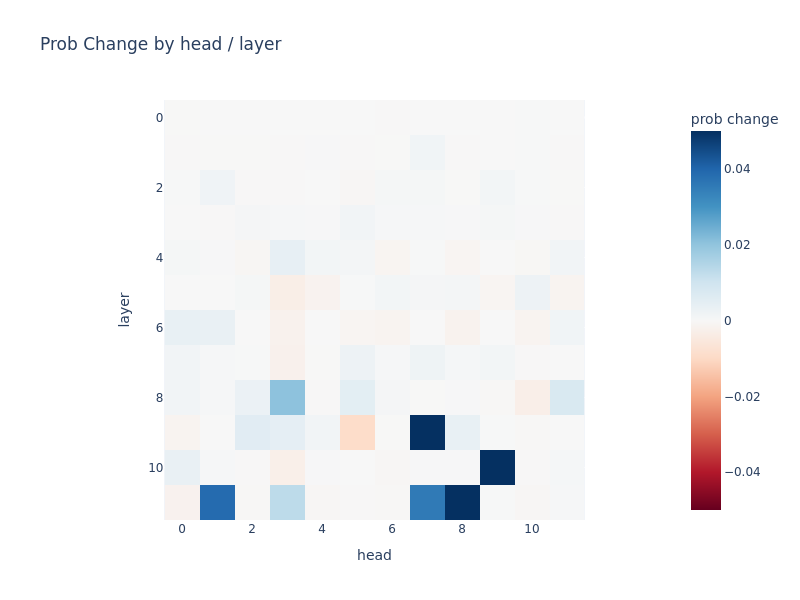
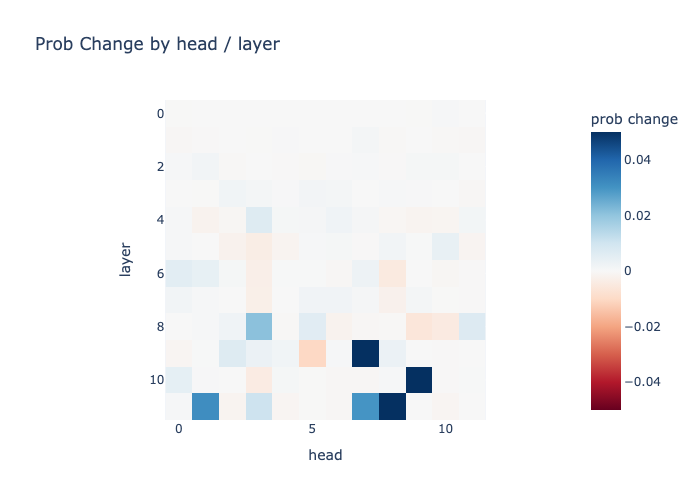
add rephrasing with subtle/direct hints

diff --git a/dataset_util.py b/dataset_util.py
@@ -16,7 +16,7 @@ def tokenize_together(model: HookedTransformer, female_sentences: List[str], mal
     return female_toks, male_toks
 
 def load_professions_dataset(model: HookedTransformer, 
-                             sentence_structure=lambda prof: f"The {prof} said that") -> Tuple[torch.Tensor, torch.Tensor, torch.Tensor, ActivationCache]:
+                             sentence_structure=lambda prof, pronoun, adj: f"The {prof} said that") -> Tuple[torch.Tensor, torch.Tensor, torch.Tensor, ActivationCache]:
     # We're going to load up some examples.
     with open("professions_female_stereo.json", 'r') as f:
         female_stereo_professions = [x[0] for x in json.load(f)]
@@ -32,9 +32,10 @@ def load_professions_dataset(model: HookedTransformer,
     male_stereo_professions = [x for x, l in zip(male_stereo_professions, male_stereo_professions_lens) if l == 1]
 
     # slot them into our sentences
-    female_stereo_sentences = [sentence_structure(profession) for profession in female_stereo_professions]
-    male_stereo_sentences = [sentence_structure(profession) for profession in male_stereo_professions]
+    female_stereo_sentences = [sentence_structure(profession, "he", "broad-shouldered") for profession in female_stereo_professions]
+    male_stereo_sentences = [sentence_structure(profession, "she", "nice-looking") for profession in male_stereo_professions]
 
+    print(female_stereo_sentences[:3], male_stereo_sentences[:3])
     # convert our sentences into tokens
     female_stereo_toks, male_stereo_toks = tokenize_together(model, female_stereo_sentences, male_stereo_sentences)
     model.cfg.use_attn_result = True

diff --git a/experiments.py b/experiments.py
@@ -97,9 +97,11 @@ if args.experiment in ["phrasing_names", "all"]:
         fig.write_image(f"results/name_rephrase_{i}_interchange_ablation_names.png")
 
 if args.experiment in ["phrasing_professions", "all"]:
-    rephrases = [lambda name: f"The {name} is here, isn't",
-                 lambda name: f"The {name} told us that",
-                 lambda name: f"I met the {name} yesterday."]
+    rephrases = [lambda name, pronoun, _: f"The {name} is here, isn't",
+                 lambda name, pronoun, _: f"The {name} told us that",
+                 lambda name, pronoun, _: f"I met the {name} yesterday and",
+                 lambda name, pronoun, _: f"The {name} looked worried as {pronoun} approached us. The {name} said that",
+                 lambda name, _, adj: f"The {adj} {name} told us that"]
     for i, rephrase_func in enumerate(rephrases):
         print(f"Loading professions dataset with rephrase {i}") 
         female_stereo_toks, male_stereo_toks, gpt2_logits, gpt2_cache = load_professions_dataset(model, sentence_structure=rephrase_func)
